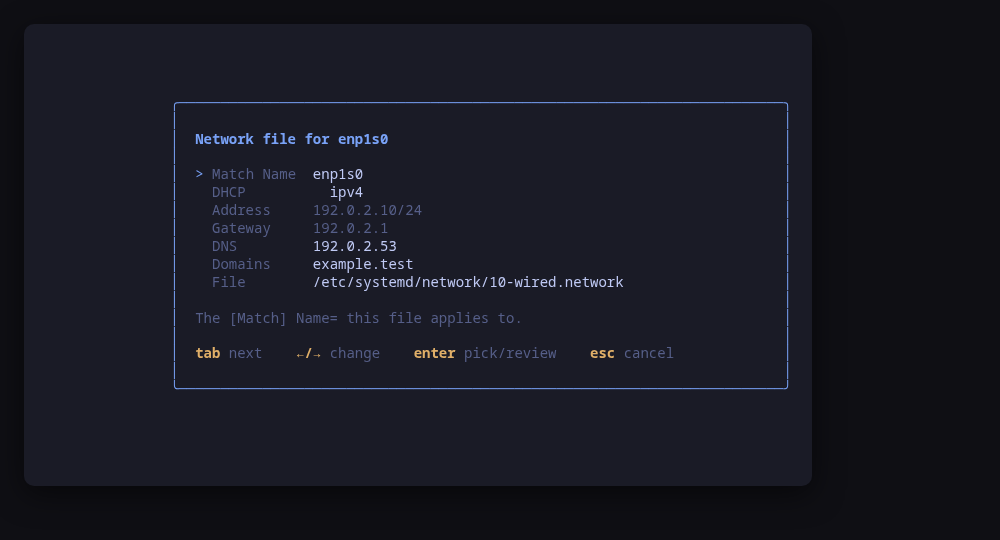
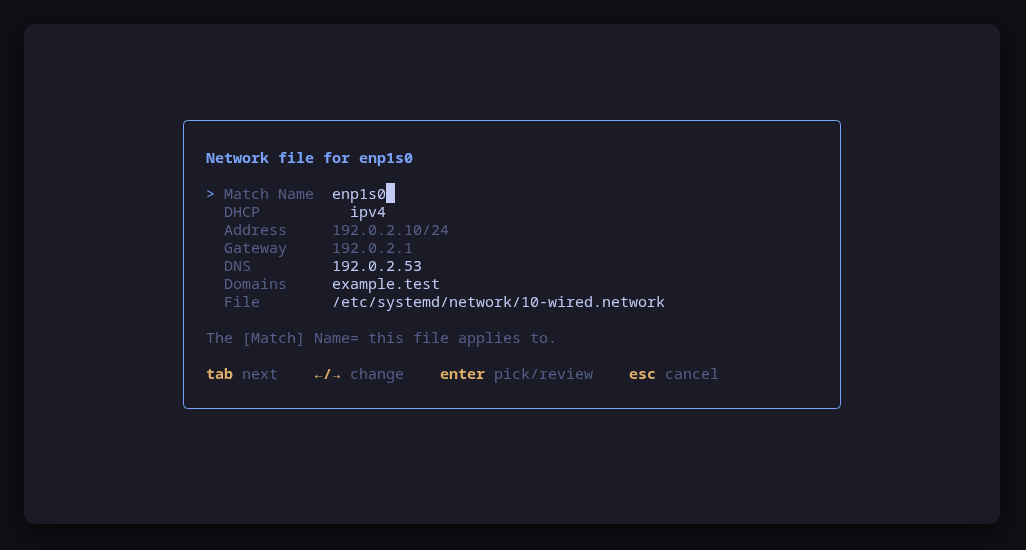
0.3.2: tui-kit v0.4.4
tui-network 0.3.2 moves to tui-kit v0.4.4: every networkctl, resolvectl and ip command now runs in its own session without a controlling terminal, so a step that would prompt fails at once instead of hanging behind the UI, and a failed step reports its meaningful line, cleaned of escape codes. Command previews are POSIX shell-quoted (a routing-only domain now reads as `'~corp.test'`), the README screenshots are re-rendered with continuous box borders, and the README banner now carries the kit's stability markers.

Claude-Session: https://claude.ai/code/session_01MbCfX3T8khyd9hsrN5kMo3

Changed region(s): [[0.155, 0.1778, 0.806, 0.7704], [0.031, 0.8889, 0.806, 0.9185]]

diff --git a/internal/networkd/command_test.go b/internal/networkd/command_test.go
@@ -99,7 +99,7 @@ func TestBuildSetDomains(t *testing.T) {
 	if err != nil {
 		t.Fatalf("BuildSetDomains: %v", err)
 	}
-	want := "resolvectl domain enp1s0 example.test ~corp.test ."
+	want := "resolvectl domain enp1s0 example.test '~corp.test' ."
 	if got := cmd.String(); got != want {
 		t.Errorf("argv %q, want %q", got, want)
 	}

diff --git a/README.md b/README.md
@@ -3,9 +3,11 @@
 [![OpenSSF Scorecard](https://api.securityscorecards.dev/projects/github.com/tui-tools/tui-network/badge)](https://scorecard.dev/viewer/?uri=github.com/tui-tools/tui-network)
 [![OpenSSF Best Practices](https://www.bestpractices.dev/projects/14368/badge)](https://www.bestpractices.dev/projects/14368)
 
+<!-- stability:start -->
 > **Beta.** The family is days old and still changing. Package names, flags
 > and keys may move without notice until 1.0. Pin versions, and report what
 > breaks.
+<!-- stability:end -->
 
 A terminal UI for the machine's network. It shows the links you actually have —
 with their addresses, routes, DNS and the `.network` file behind each one — and
@@ -127,7 +129,7 @@ Upgrades then arrive with the rest of your system updates.
 ### Any distribution, static binary
 
 ```sh
-curl -fsSL https://github.com/tui-tools/tui-network/releases/download/v0.3.1/tui-network_0.3.1_linux_amd64.tar.gz | tar -xz tui-network
+curl -fsSL https://github.com/tui-tools/tui-network/releases/download/v0.3.2/tui-network_0.3.2_linux_amd64.tar.gz | tar -xz tui-network
 sudo install -m0755 tui-network /usr/local/bin/tui-network
 ```
 
